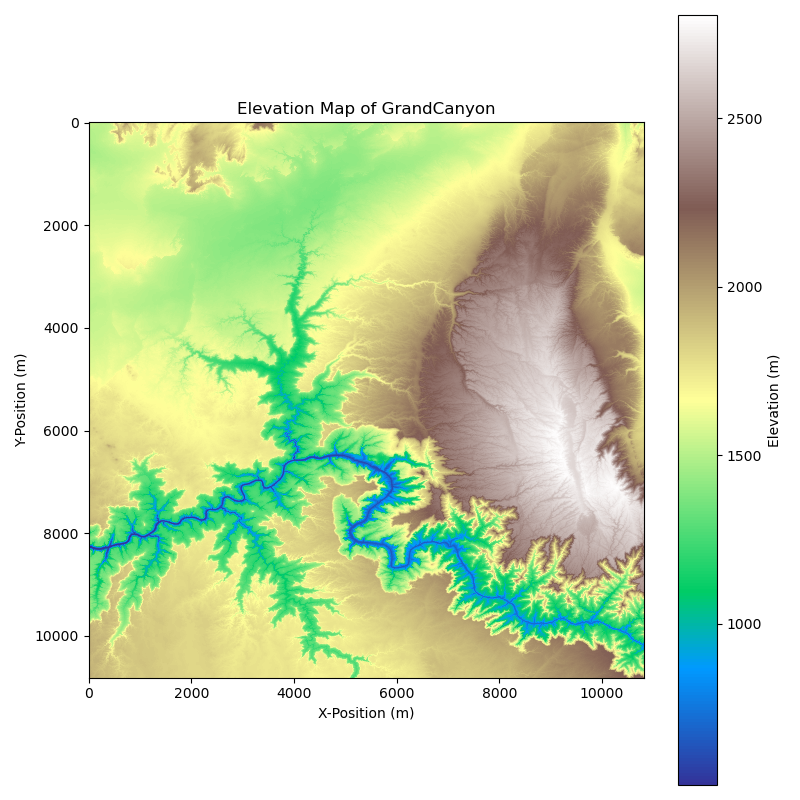
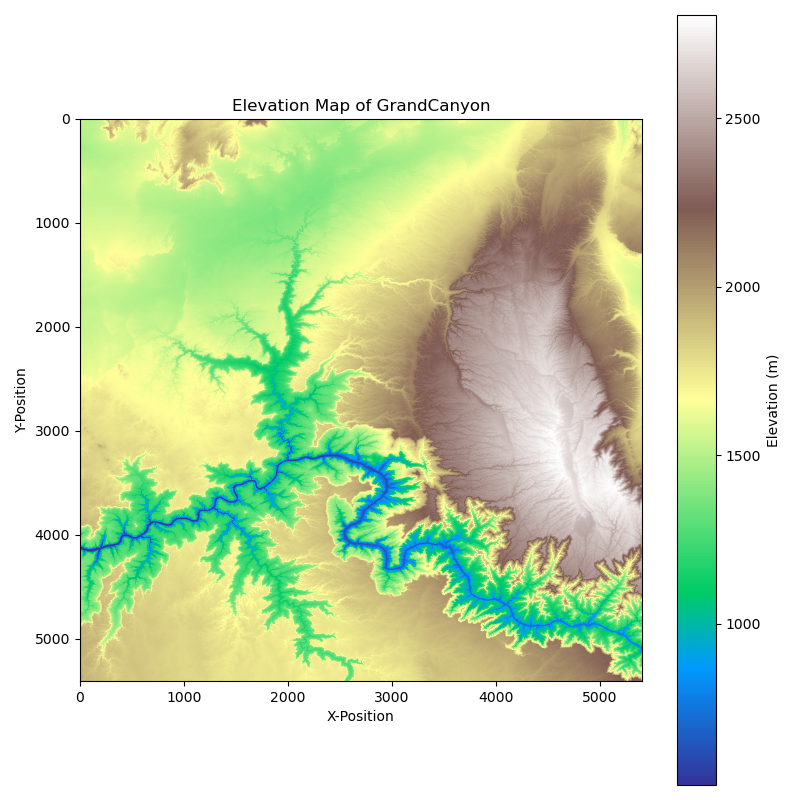
A few more ideas

diff --git a/Traveler_Path_Optimization/Classes.py b/Traveler_Path_Optimization/Classes.py
@@ -14,6 +14,12 @@ Description: Central Repository for all my classes used in the development of my
     - I felt like the speed function could be determined by the landscape and then the traveler would have to 
     reference the terrain object to make his favorability function?Makes sense right, you survey the land before 
     you move, so the two objects would have to interact!
+    
+    
+for this entire thing lets index bu i and j, not the actual position value, let us just consider the pixel values
+
+
+Eventually for the energy function --> https://www.outsideonline.com/health/training-performance/easy-hike-up-hills/?scope=anon
 
 '''
 
@@ -41,8 +47,8 @@ class Landscape:
     Description: Classs to represent the landscape the traveler will be interacting with. This class has the 
     following functionality:
         
-        --> Reading Geotiff output file and organizing the data
-        --> Accessing terrain data
+        --> Reading Geotiff output file and organizing the data | DONE: __init__
+        --> Accessing terrain data | DONE: self objects
         --> makes obstacles ( basically it will allow the user to specify a height range that classifies an obstacle)
             ex) all height below 200 m is a river (river obstacles have slower speed depending on depth of river)
             ex) all abs(gradient) larger than ...  is a cliff (cliffs will essentially be impassable, speed --> 0)
@@ -54,14 +60,23 @@ class Landscape:
     
     def __init__(self, DataFileName):
         ''' 
-        Description: reads in the data from the geotiff-xyz output, and perhpas reshapes it into a 
-        grid for easier indexing and everything (all data is the same shape)
-        
-        --> for that to happen though, I need sort of a "binned metadata" at the top of the file
-        that has the data shape outlined
+        Description: Initializes an instance of the Landscape class based upon an input file. This function
+        reads, and organizes the data into shaped arrays based upon original binned file specifications
+        outlined in the header. The arrays can be accessed throughout the Landscape class as they are "self"
+        accessible. The "self" varaibles determined through this function are outlined below.
             
         Inputs:
-            - DataFileName: 
+            - DataFileName: string, filename of data to be read in. File must be in "OptimalControl" Format.
+            
+        Returns: No variables returned, but "self" variables can be accessed throughout the landscape class.
+            - DataHeight: interger, number representing the height (number of rows) of the point cloud
+            - DataWidth: interger, number representing the width (number of columns) of the point cloud
+            - XPositions: shapped array (DataHeight by DataWidth) of float values, representing the x positions in meters of each point
+            - YPositions: shapped array (DataHeight by DataWidth) of float values, representing the y positions in meters of each point
+            - ZPositions: shapped array (DataHeight by DataWidth) of float values, representing the z positions in meters of each point
+            - Slopes:
+            - XunitV:
+            - YunitV:
         '''
         ### File Management ###
         # Opening File #
@@ -94,7 +109,6 @@ class Landscape:
         self.XunitV = np.reshape(Data['XSlopeUnitVector'], (self.DataHeight, self.DataWidth))
         self.YunitV = np.reshape(Data['YSlopeUnitVector'], (self.DataHeight, self.DataWidth))
         ### ----- ###
-        
     ### END __init__
         
     
@@ -116,9 +130,12 @@ class Landscape:
         
         #contours = plt.contour(self.XPositions, self.YPositions, self.ZPositions, levels=15, colors='white', linewidths=1)
         #contours = plt.contour(self.ZPositions, levels=4, cmap = 'coolwarm', linewidth = 0.5) #colors='white', linewidths=0.5)
-
-
-
+        #contours = plt.contour(self.Slopes, levels=[0.5, 1.0, 2, 4], cmap = 'coolwarm', linewidths=2)
+        Fcountours = plt.contourf(self.Slopes, levels=np.linspace(self.Slopes.min(), 1, 100), cmap='Blues')
+        
+        
+        ''' essentially humans cannot climb a slope less than 45 degress or in my case 1 '''
+        
         # Label the contours
         #plt.clabel(contours, inline=True, fontsize=8, fmt="%.0f")
         
@@ -134,20 +151,53 @@ class Landscape:
         # Saving Figure #
         #plt.savefig(f'Elevation-{Location}_Bin{BinFactor}-{BinMode}.png')
         
-        
-        
     ### END GradientContourDiagram
     
     
-    def SpeedFunction(self):
+    def SpeedFunction(self, Obstacles, LimitingAngle):
         '''
-        Description:
+        Description: I think speed step will take upon the roll of multiplicative factor for regions of decent gradient
+        I think this function will essentially just determine how passable the terrain is
+        
+        let's consider for example regions of really high gradient (these will be essentially cliffs or walls), these can be 
+        uncrossable after a certain point dependent on tan^-1(slope) will give us a limiting angle
+        
+        then the obstacle functions will give us our unpassable terrain or our obstacle objects
+        
+        then the speed function can factor the gradient into the delta z calculation at the speed step stage of the 
+        pipeline
+        
+        here will essentially just assign speed limitation values to each point depending upon terrain obstacles and how steep the gradient is
             
         Inputs:
-            - 
-        
+            - Obstacles: ______________ <-- what Im thinking right now is to have obstacles basically be a 2D
+            matrix of the same shape as everything else assigning a speed multiplier to each point
+            
+            1 = speed normal
+            0 = full stop (can't cross basically) for example a huge rock you cannot walk overtop of
+            0.4 --> walking through a light speed slowing your movement by 60 %
         
         '''
+        
+        Speed = np.zeros((self.DataHeight, self.DataWidth))
+        
+        ### so if obstacles  = what is above then we have this...
+        ### Speed = Obstacles
+        ### Speed[(Slopes > np.arctan(np.radians(LimitingAngle)))] = 0
+        ### --> what should be left is basically the speed multiplier values at each navigable point
+        
+        
+        # this one first #
+        Speed = Speed[np.where(self.Slopes <= np.artan(LimitingAngle))] = 1 # crossable terrain under my limiting angle
+        Speed = Speed[np.where(Obstacles) != 0] = (np.where(Obstacles) != 0)
+        
+        
+        # Do this stuff last #
+        Speed = Speed[np.where(self.Slopes > np.arctan(LimitingAngle))] = 0 # no speed past my limiting angle
+        
+        
+        
+    ### END SpeedFunction
     
 ### END Landscape
 
@@ -197,6 +247,19 @@ class Traveler:
         Description: I want this function to plan what step to take, essentially we would be doing the take step function 
         but updating some sort of planning position essentially determines which of the 4 directions is best
         and stores the updated position and the cost of that step
+        
+        I feel like you move:
+            faster when going -deltaZ (higher to lower), unless its super steep
+            slower when going +deltaZ (lower to higher), unless its super steep
+            normal at 0 = deltaZ (even terrain)
+            
+        so maybe we need to have a Speedstep function that basically takes my landscape object's speed function and 
+        multiplies the speed by an additional factor depending upon the deltaZ of the move to account for this
+        obviously my speed function will be already dependent upon the gradient 
+        
+        This speed step function is good too becuase we can eventually factor in mass and other things too!
+        which would pull on the self parameter
+        
         
         Inputs:
             - 

diff --git a/Traveler_Path_Optimization/Geotiff-xyz.py b/Traveler_Path_Optimization/Geotiff-xyz.py
@@ -375,7 +375,7 @@ def OutputFile(X, Y, Z, Slope, X_unitV, Y_unitV, Location, BinFactor, BinMode, O
     Z = Z.flatten()
     
     
-    if OutputMode == 'OptimalControl':
+    if OutputMode.lower() == 'optimalcontrol':
         File = open(f'{OutputMode}Elevation-{Location}_Bin{BinFactor}-{BinMode}.txt', 'w')
         
         # Writing Custom Header #
@@ -390,7 +390,7 @@ def OutputFile(X, Y, Z, Slope, X_unitV, Y_unitV, Location, BinFactor, BinMode, O
         ###
     ###
     
-    if OutputMode == '3DPrint':
+    if OutputMode.lower() == '3dprint':
         File = open(f'{OutputMode}Elevation-{Location}_Bin{BinFactor}-{BinMode}.asc', 'w')
         
         for index in range(0, len(X)): # Iterating through each point and writing data to file
@@ -444,14 +444,14 @@ def MAIN():
     '''
     
     ############### User Inputs ###############
-    BinFactor = 40 # interger, value describing the number of pixels (data points) in each bin
-    BinMode = 'Sampling' # string, variable description which bin mode is used when compressing the data, see DataRetrieve for more details
+    BinFactor = 1 # interger, value describing the number of pixels (data points) in each bin
+    BinMode = 'none' # string, variable description which bin mode is used when compressing the data, see DataRetrieve for more details
     Location = 'GrandCanyon' # string, name of location being displayed (nearest city / landmark)
-    OutputMode = 'OptimalControl' # string, name of ouput mode being considered for the output file (see OutputFile for more details)
+    OutputMode = '3DPrint' # string, name of ouput mode being considered for the output file (see OutputFile for more details)
     ############### ----------- ###############
 
     # Quick correction if you forget to adjust BinFactor #
-    if BinMode == 'None': 
+    if BinMode.lower() == 'none': 
         BinFactor = 1
 
     X, Y, Z, Slope, X_unitV, Y_unitV, Metadata = DataRetrieve(BinMode, BinFactor)
